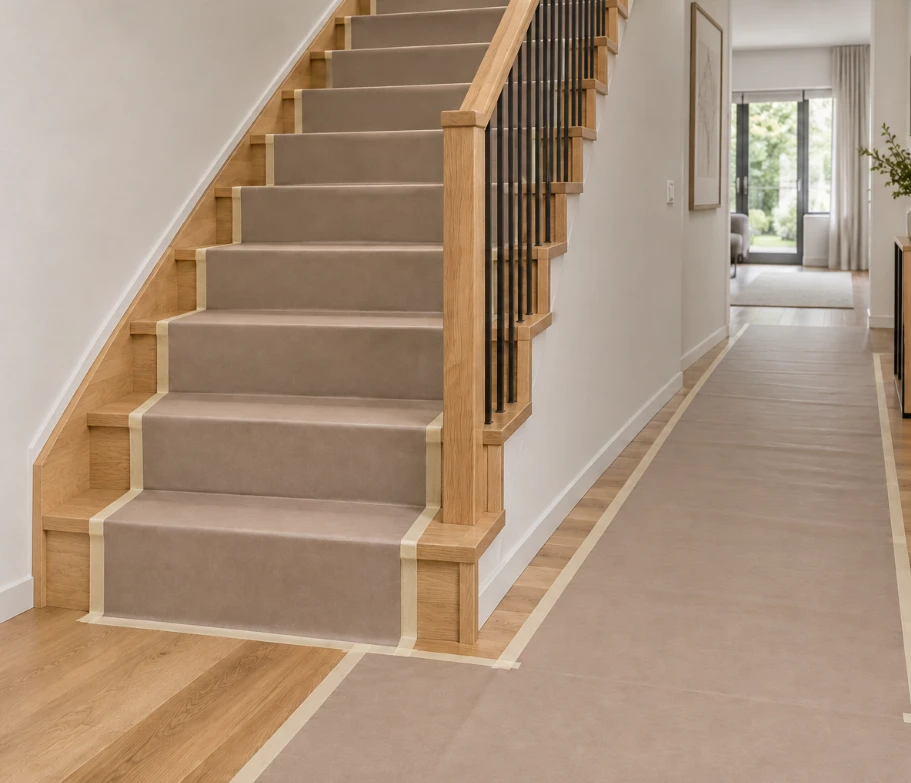
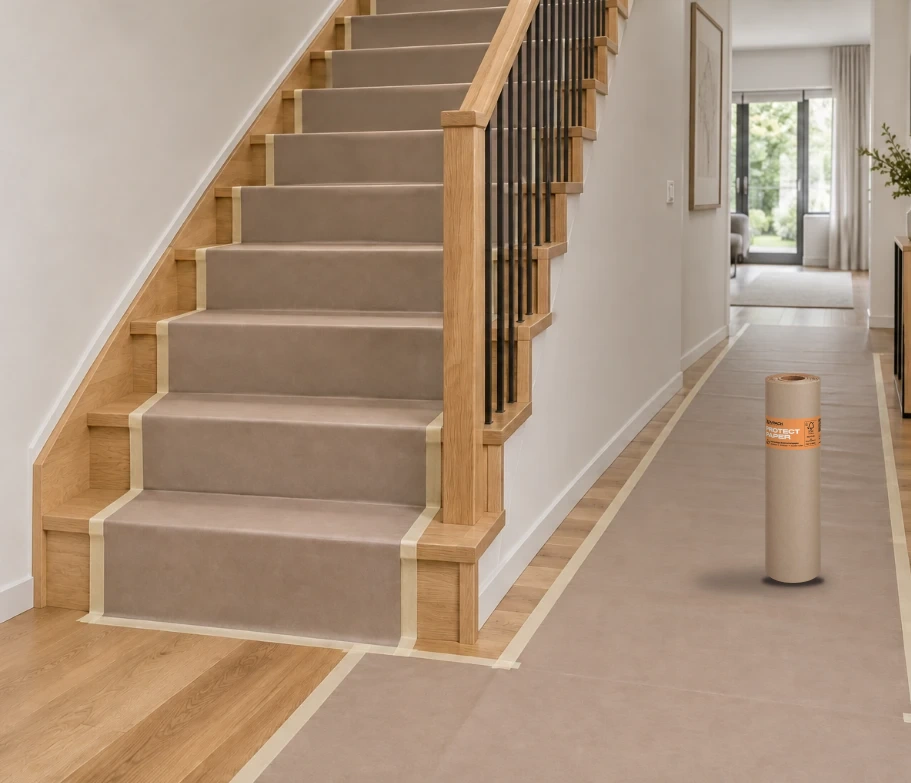
PROTECT Paper stairs photo: a standing PROTECT roll on the covered hallway floor, like the other use photos

Changed region(s): [[0.8299, 0.4598, 0.9221, 0.613], [0.7684, 0.613, 0.9221, 0.7663]]

diff --git a/de/produkte/bodenschutzpapier.html b/de/produkte/bodenschutzpapier.html
@@ -492,7 +492,7 @@
                     <div class="kovpack-pdp__deck">
                         <div class="kovpack-pdp__card" data-pdp-gallery-card><img alt="KOVPACK-PROTECT Paper als Rolle auf einem mit Papier abgedeckten Boden bei Malerarbeiten" src="../../fileadmin/user_upload/products/kovpack-floor-protection-paper.webp?v=bed776c6" width="1254" height="1254" /></div>
                         <div class="kovpack-pdp__card" data-pdp-gallery-card><img alt="Monteur baut Küchenschränke auf einem mit PROTECT Paper abgedeckten Boden ein" src="../../fileadmin/user_upload/products/kovpack-floor-protection-kitchen.webp?v=4878928b" width="1536" height="1024" loading="lazy" decoding="async" /></div>
-                        <div class="kovpack-pdp__card" data-pdp-gallery-card><img alt="Treppe und Flur mit PROTECT Paper abgedeckt und abgeklebt" src="../../fileadmin/user_upload/products/kovpack-floor-protection-stairs.webp?v=c7794bc3" width="911" height="783" loading="lazy" decoding="async" /></div>
+                        <div class="kovpack-pdp__card" data-pdp-gallery-card><img alt="Treppe und Flur mit PROTECT Paper abgedeckt und abgeklebt" src="../../fileadmin/user_upload/products/kovpack-floor-protection-stairs.webp?v=327e6064" width="911" height="783" loading="lazy" decoding="async" /></div>
                         <div class="kovpack-pdp__card" data-pdp-gallery-card><img alt="Malerin streicht eine Wand, der Boden ist mit PROTECT Paper geschützt" src="../../fileadmin/user_upload/products/kovpack-floor-protection-painting.webp?v=50db5aca" width="1536" height="1024" loading="lazy" decoding="async" /></div>
                     </div>
                     <div class="kovpack-pdp__gallery-nav" hidden>
@@ -601,7 +601,7 @@
                     </li>
                     <li class="kovpack-pdp__video">
                         <div class="kovpack-pdp__video-frame kovpack-pdp__video-frame--preview">
-                            <img class="kovpack-pdp__video-poster" src="../../fileadmin/user_upload/products/kovpack-floor-protection-stairs.webp?v=c7794bc3" alt="" width="911" height="783" loading="lazy" decoding="async" />
+                            <img class="kovpack-pdp__video-poster" src="../../fileadmin/user_upload/products/kovpack-floor-protection-stairs.webp?v=327e6064" alt="" width="911" height="783" loading="lazy" decoding="async" />
                             <span class="kovpack-pdp__video-play" aria-hidden="true"></span>
                             <span class="kovpack-pdp__video-soon">Video folgt</span>
                         </div>

diff --git a/en/products/floor-protection-paper.html b/en/products/floor-protection-paper.html
@@ -492,7 +492,7 @@
                     <div class="kovpack-pdp__deck">
                         <div class="kovpack-pdp__card" data-pdp-gallery-card><img alt="KOVPACK floor protection paper roll on a paper-covered floor during painting work" src="../../fileadmin/user_upload/products/kovpack-floor-protection-paper.webp?v=bed776c6" width="1254" height="1254" /></div>
                         <div class="kovpack-pdp__card" data-pdp-gallery-card><img alt="Fitter installing kitchen cabinets on a floor covered with PROTECT Paper" src="../../fileadmin/user_upload/products/kovpack-floor-protection-kitchen.webp?v=4878928b" width="1536" height="1024" loading="lazy" decoding="async" /></div>
-                        <div class="kovpack-pdp__card" data-pdp-gallery-card><img alt="Stairs and hallway covered and taped with PROTECT Paper" src="../../fileadmin/user_upload/products/kovpack-floor-protection-stairs.webp?v=c7794bc3" width="911" height="783" loading="lazy" decoding="async" /></div>
+                        <div class="kovpack-pdp__card" data-pdp-gallery-card><img alt="Stairs and hallway covered and taped with PROTECT Paper" src="../../fileadmin/user_upload/products/kovpack-floor-protection-stairs.webp?v=327e6064" width="911" height="783" loading="lazy" decoding="async" /></div>
                         <div class="kovpack-pdp__card" data-pdp-gallery-card><img alt="Painter rolling a wall while PROTECT Paper protects the floor" src="../../fileadmin/user_upload/products/kovpack-floor-protection-painting.webp?v=50db5aca" width="1536" height="1024" loading="lazy" decoding="async" /></div>
                     </div>
                     <div class="kovpack-pdp__gallery-nav" hidden>
@@ -600,7 +600,7 @@
                     </li>
                     <li class="kovpack-pdp__video">
                         <div class="kovpack-pdp__video-frame kovpack-pdp__video-frame--preview">
-                            <img class="kovpack-pdp__video-poster" src="../../fileadmin/user_upload/products/kovpack-floor-protection-stairs.webp?v=c7794bc3" alt="" width="911" height="783" loading="lazy" decoding="async" />
+                            <img class="kovpack-pdp__video-poster" src="../../fileadmin/user_upload/products/kovpack-floor-protection-stairs.webp?v=327e6064" alt="" width="911" height="783" loading="lazy" decoding="async" />
                             <span class="kovpack-pdp__video-play" aria-hidden="true"></span>
                             <span class="kovpack-pdp__video-soon">Video coming soon</span>
                         </div>
